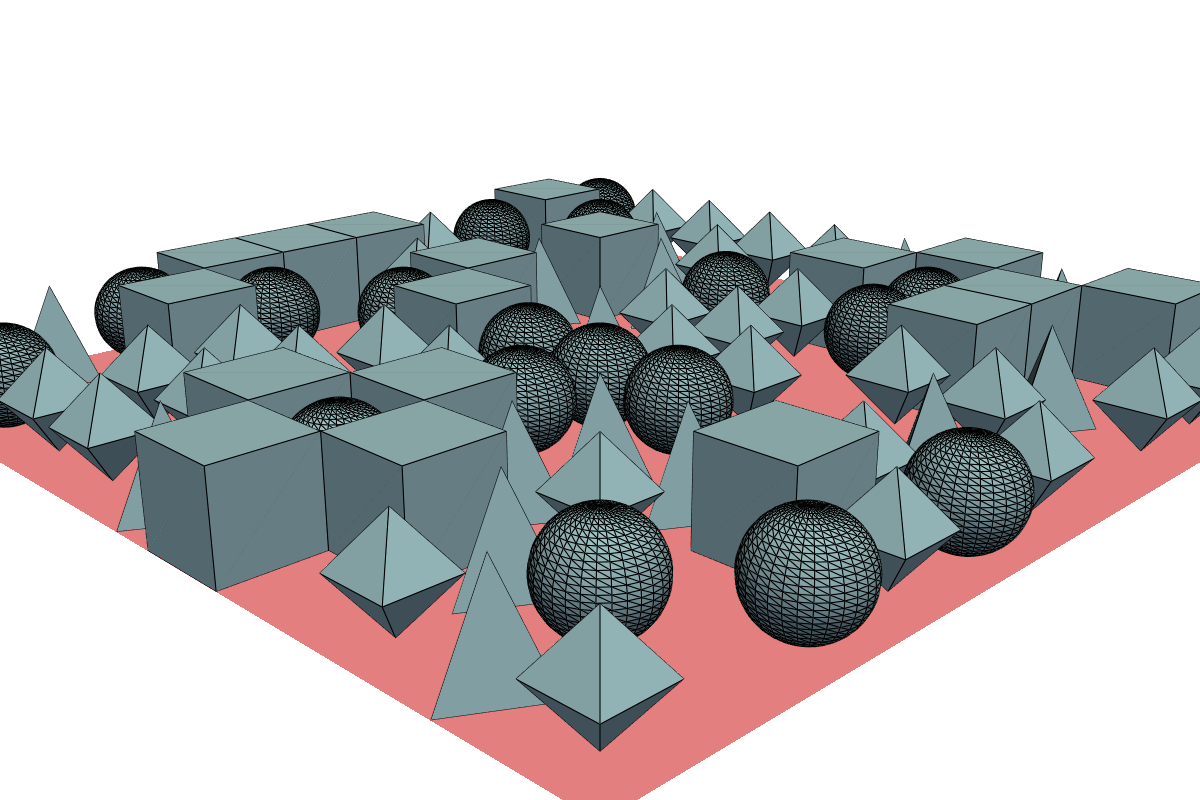
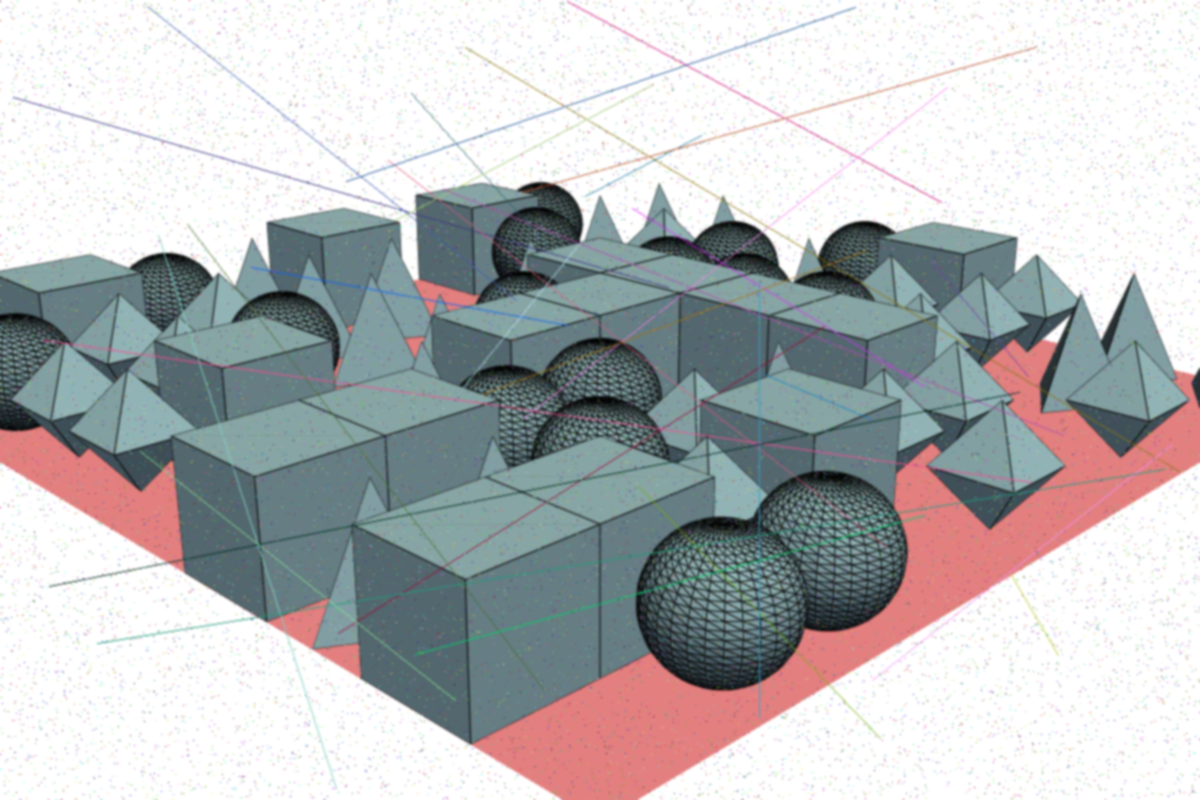
Illegal solutions?

diff --git a/image_generator.py b/image_generator.py
@@ -1,15 +1,16 @@
 #!/usr/bin/env python3
 import math
 import pyvista as pv
-#import noise_adder
+import noise_adder
 import random
 from PIL import Image
 
 
 # Configuration constants.
 OUTPUT_FILE = "captcha.png"
-RETURN_MODE_SAVE_FILE = True
-RETURN_MODE_HTTP = False
+RETURN_MODE_SAVE_FILE = 0
+RETURN_MODE_HTTP = 1
+RETURN_MODE_RETURN = 2
 HTTP_ENDPOINT = "localhost:3456"
 CELL_SPACING = 1.0  # Distance between centers of grid cells.
 SHAPE_SIZE = 1.0    # Size of each 3D shape.
@@ -100,25 +101,6 @@ def render_scene(scene, camera_offset = (0, 0, 0), camera_rotation = (0, 0, 1), 
     #pl.show(screenshot=output_file)
     #print(f"Scene rendered and saved to {output_file}")
 
-def sample_scene():
-    """
-    Creates and returns a sample 10x10 scene.
-    Empty string '' means no shape in that cell.
-    """
-    # [0][0] is the furthest item
-    # [0] is the rightmost row, low indexes being further back
-    return [
-        ["diamond", "square", "square", "", "triangle", "", "diamond", "", "circle", ""],
-        ["square", "square", "", "triangle", "", "diamond", "", "circle", "", "square"],
-        ["", "triangle", "circle", "", "square", "", "diamond", "circle", "triangle", ""],
-        ["diamond", "", "triangle", "circle", "", "square", "", "triangle", "circle", "diamond"],
-        ["circle", "square", "", "diamond", "triangle", "", "circle", "square", "", "triangle"],
-        ["triangle", "", "diamond", "circle", "", "square", "triangle", "", "diamond", "circle"],
-        ["", "diamond", "circle", "", "triangle", "square", "", "diamond", "circle", "triangle"],
-        ["square", "triangle", "", "diamond", "circle", "", "square", "triangle", "", "diamond"],
-        ["diamond", "", "circle", "tri/home/melchior/Documents/Git/freecaptcha/captcha.pngangle", "", "diamond", "circle", "", "square", "triangle"],
-        ["circle", "diamond", "triangle", "", "circle", "square", "", "diamond", "triangle", "circle"]
-    ]
 
 
 def generate_captcha(grid_size: int = 10, noise_level: int = 3, return_mode = RETURN_MODE_SAVE_FILE):
@@ -144,13 +126,16 @@ def generate_captcha(grid_size: int = 10, noise_level: int = 3, return_mode = RE
             grid[i][j] = random.choice(shapes)
     
     render = render_scene(grid)
+    render = noise_adder.add_noise(render)
+
+    if return_mode == RETURN_MODE_RETURN:
+        return render
     if return_mode == RETURN_MODE_SAVE_FILE:
         render.save(OUTPUT_FILE)
+        return
     else:
         pass
 
 
 if __name__ == "__main__":
-    #scene = sample_scene()
-    #render_scene(scene, "output.png", camera_offset=(0, 0, 0))
-    generate_captcha(10)
+    generate_captcha(9)

diff --git a/noise_adder.py b/noise_adder.py
@@ -28,6 +28,3 @@ def add_noise(image, lines = 30, dots = 20000, rotation = 0, blur = 1.2):
     image = image.filter(ImageFilter.GaussianBlur(radius=blur))
 
     return image
-
-# Example usage
-add_noise('output.png', 'noisy.png')
